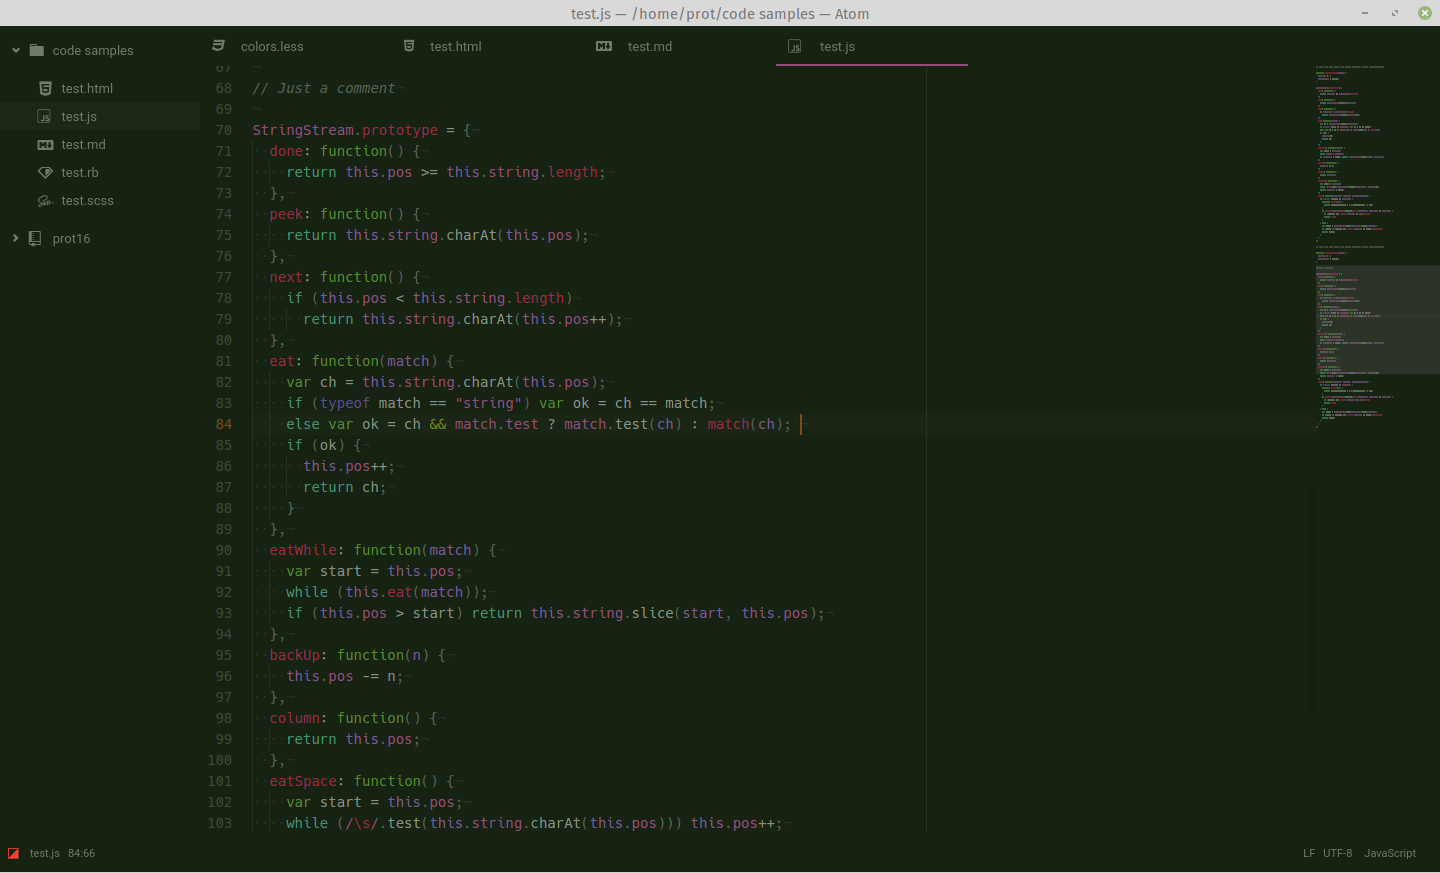
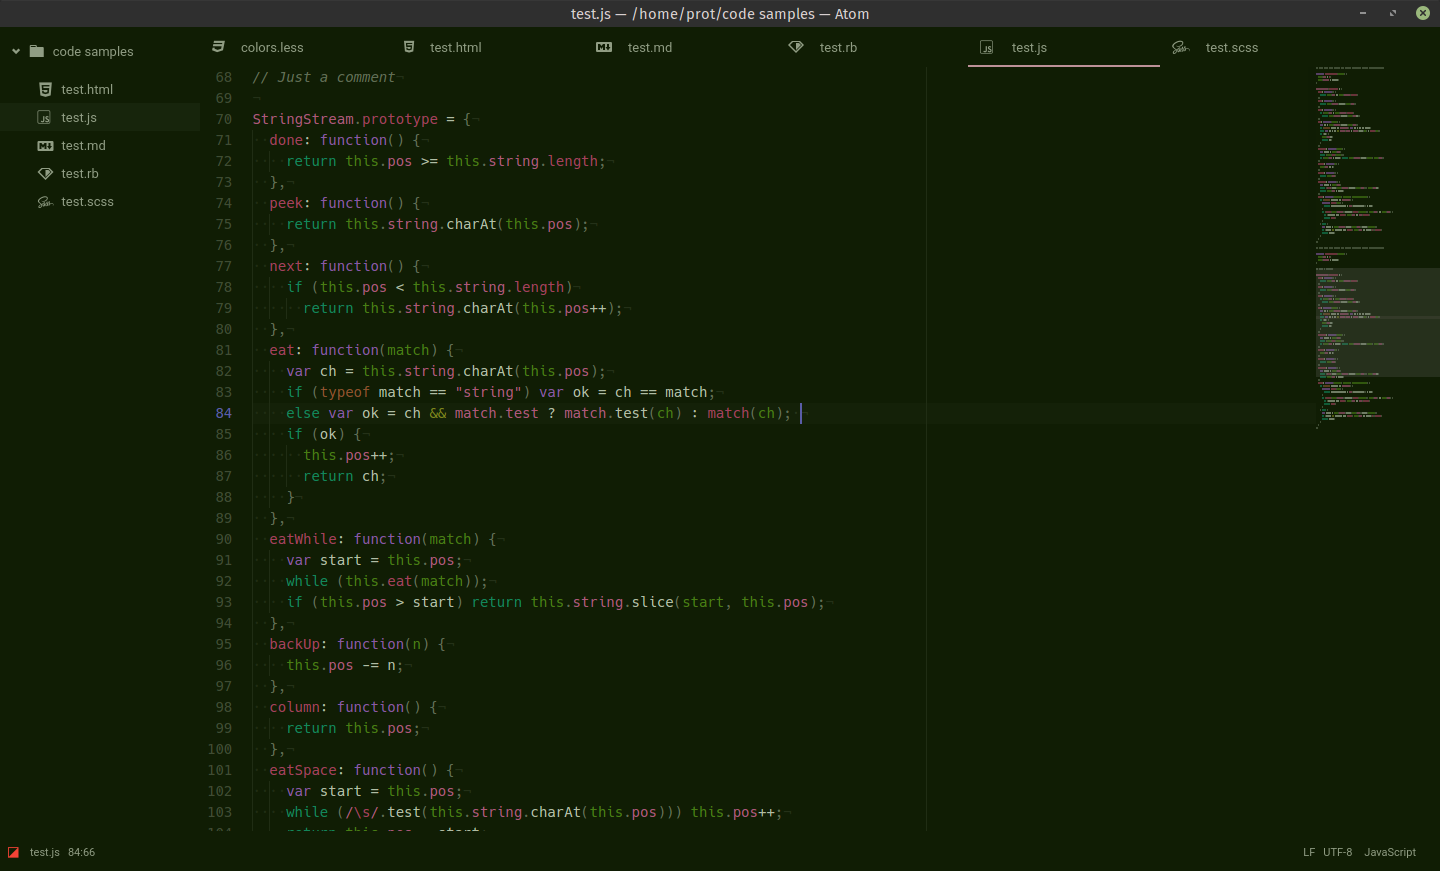
Update Bionis, Caprice, Vin.

diff --git a/vin/lb/vin-syntax.scss b/vin/lb/vin-syntax.scss
@@ -7,25 +7,25 @@
 
 // Variables ----------------------------
 
-$dbg: #162212; // Dark background
-$dhl: #263222; // Dark highlight
-$dt2: #566252; // Dark bg text secondary
-$dt1: #869282; // Dark bg text primary
+$dbg: #101D04; // Dark background
+$dhl: #202D14; // Dark highlight
+$dt2: #606D54; // Dark bg text secondary
+$dt1: #B0BDA4; // Dark bg text primary
 
-$lbg: #D6E5C2; // Light background
-$lhl: #C6D5B2; // Light highlight
-$lt2: #768562; // Light bg text secondary
-$lt1: #465532; // Light bg text primary
+$lbg: #EFFDD4; // Light background
+$lhl: #DFEDC4; // Light highlight
+$lt2: #7F8D64; // Light bg text secondary
+$lt1: #3F4D24; // Light bg text primary
 
-$red: #982B45; // Red
-$ora: #7D4A1D; // Orange
+$red: #A3415C; // Red
+$ora: #8D522D; // Orange
 $yel: #7D851D; // Yellow
-$gre: #568A2D; // Green
+$gre: #487D14; // Green
 
-$cya: #469272; // Cyan
-$blu: #564E8D; // Blue
-$vio: #7D5896; // Violet
-$mag: #944D7A; // Magenta
+$cya: #13865A; // Cyan
+$blu: #5A5DA8; // Blue
+$vio: #8858A5; // Violet
+$mag: #AC587A; // Magenta
 
 // Base Defaults ------------------------
 // Just swap $l with $d in the following three lines to switch between dark/light
@@ -37,15 +37,15 @@ $background: $lbg;
 // Colour order
 // No need to configure
 
-$primary1: $vio;
-$primary2: $gre;
+$primary1: $gre;
+$primary2: $vio;
 $primary3: $red;
 
 $secondary1: $mag;
 $secondary2: $cya;
 
-$tertiary1: $ora;
-$tertiary2: $blu;
+$tertiary1: $blu;
+$tertiary2: $ora;
 $tertiary3: $yel;
 
 // Syntax -------------------------------

diff --git a/caprice/lb/caprice-syntax.scss b/caprice/lb/caprice-syntax.scss
@@ -7,25 +7,25 @@
 
 // Variables ----------------------------
 
-$dbg: #0A0909; // Dark background
-$dhl: #1A1919; // Dark highlight
-$dt2: #6A6969; // Dark bg text secondary
-$dt1: #9A9999; // Dark bg text primary
+$dbg: #211B29; // Dark background
+$dhl: #312B39; // Dark highlight
+$dt2: #716B79; // Dark bg text secondary
+$dt1: #A19BA9; // Dark bg text primary
 
-$lbg: #DDD6DA; // Light background
-$lhl: #CDC6CA; // Light highlight
-$lt2: #8D868A; // Light bg text secondary
-$lt1: #4D464A; // Light bg text primary
+$lbg: #FEFBFC; // Light background
+$lhl: #EEEBEC; // Light highlight
+$lt2: #7E7B7C; // Light bg text secondary
+$lt1: #2E2B2C; // Light bg text primary
 
-$red: #8C354D; // Red
+$red: #983D4F; // Red
 $ora: #9A5D38; // Orange
-$yel: #837A00; // Yellow
+$yel: #A58A30; // Yellow
 $gre: #278975; // Green
 
-$cya: #4783A3; // Cyan
-$blu: #5565A9; // Blue
-$vio: #836AC2; // Violet
-$mag: #994885; // Magenta
+$cya: #587EBC; // Cyan
+$blu: #585EBC; // Blue
+$vio: #8955A2; // Violet
+$mag: #AC4D7A; // Magenta
 
 // Base Defaults ------------------------
 // Just swap $l with $d in the following three lines to switch between dark/light
@@ -37,15 +37,15 @@ $background: $lbg;
 // Colour order
 // No need to configure
 
-$primary1: $gre;
-$primary2: $red;
+$primary1: $vio;
+$primary2: $gre;
 $primary3: $blu;
 
 $secondary1: $cya;
-$secondary2: $vio;
+$secondary2: $ora;
 
-$tertiary1: $mag;
-$tertiary2: $ora;
+$tertiary1: $red;
+$tertiary2: $mag;
 $tertiary3: $yel;
 
 // Syntax -------------------------------

diff --git a/bionis/lb/bionis-syntax.scss b/bionis/lb/bionis-syntax.scss
@@ -7,15 +7,15 @@
 
 // Variables ----------------------------
 
-$dbg: #281D2A; // Dark background
-$dhl: #382D3A; // Dark highlight
-$dt2: #786D7A; // Dark bg text secondary
-$dt1: #A89DAA; // Dark bg text primary
+$dbg: #251A27; // Dark background
+$dhl: #352A37; // Dark highlight
+$dt2: #857A87; // Dark bg text secondary
+$dt1: #B5AAB7; // Dark bg text primary
 
-$lbg: #F9F5FA; // Light background
-$lhl: #E9E5EA; // Light highlight
-$lt2: #99959A; // Light bg text secondary
-$lt1: #39353A; // Light bg text primary
+$lbg: #FBF8FD; // Light background
+$lhl: #EBE8ED; // Light highlight
+$lt2: #8B888D; // Light bg text secondary
+$lt1: #3B383D; // Light bg text primary
 
 $red: #C25A5B; // Red
 $ora: #CB6832; // Orange
@@ -23,7 +23,7 @@ $yel: #BA8A00; // Yellow
 $gre: #4DA35C; // Green
 
 $cya: #439B9B; // Cyan
-$blu: #5A8ACD; // Blue
+$blu: #5A7ACD; // Blue
 $vio: #AA6BC5; // Violet
 $mag: #C25783; // Magenta
 
@@ -45,8 +45,8 @@ $secondary1: $cya;
 $secondary2: $red;
 
 $tertiary1: $ora;
-$tertiary2: $yel;
-$tertiary3: $mag;
+$tertiary2: $mag;
+$tertiary3: $yel;
 
 // Syntax -------------------------------
 // Classes are prefixed with .highlight

diff --git a/caprice/README.md b/caprice/README.md
@@ -1,5 +1,5 @@
 # Caprice syntax theme
 
-Medium-to-high contrast theme. Its most prevalent colours are variants of green, red, blue, cyan, and violet.
+Medium-to-high contrast theme. Its most prevalent colours are variants of violet, green, blue, cyan, and orange (brown).
 
 Project page: [http://www.protesilaos.com/caprice](http://www.protesilaos.com/caprice)
